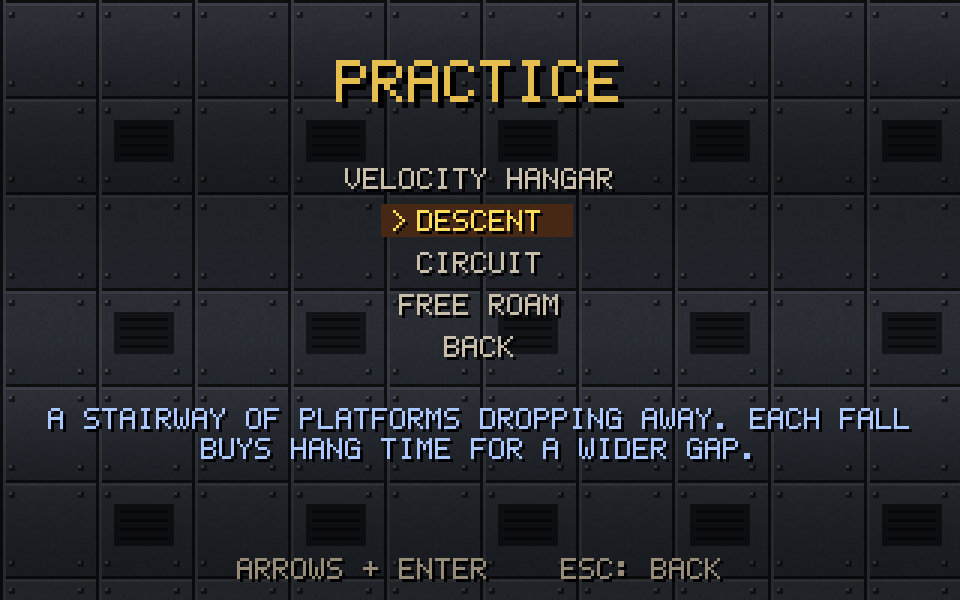
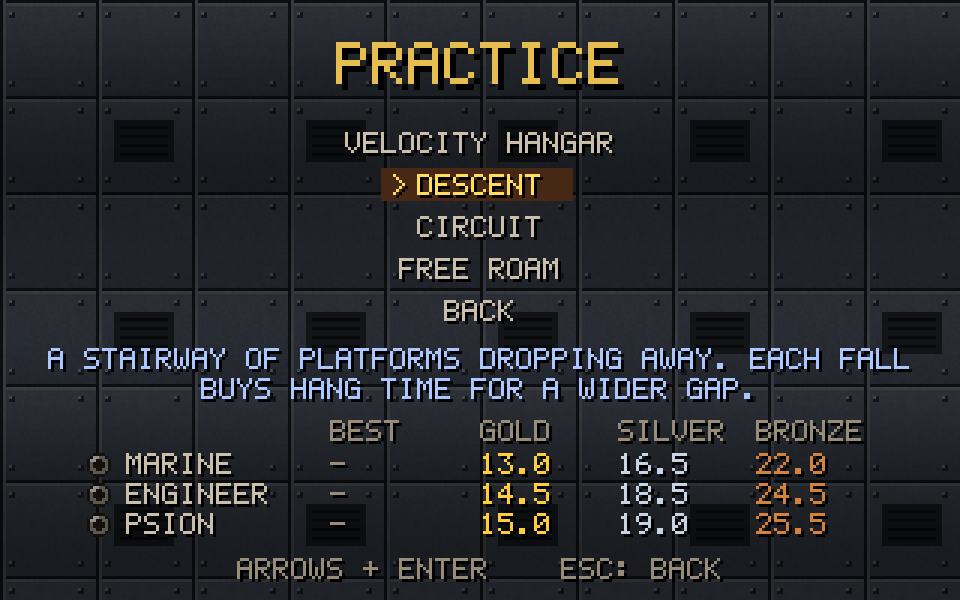
Add gold, silver and bronze medals to the practice courses
Each timed course has target times per class: the route at an average of
170%, 135% and 100% of the class's base run speed, rounded up to the half
second (Marine on the Velocity Hangar: 11.5 / 14.5 / 19.5s). Medals come
from your best time, so existing times earn them straight away.

The clock shows the best medal the run can still make, counting down; the
finish says what the run earned, when it's a new medal, and what the next
one takes. The course list shows each class's medal and the targets, and
the leaderboard shows the targets and a medal by each time.

Claude-Session: https://claude.ai/code/session_01Cd95BVWVCBoytmQDLRrWJ5

diff --git a/src/Renderer.cs b/src/Renderer.cs
@@ -141,14 +141,13 @@ public sealed class Renderer
                 break;
 
             case MenuPage.Courses:
-                CenterText("PRACTICE", 20, Col.Rgb(230, 190, 80), 2);
-                for (int i = 0; i < items.Length; i++) MenuItem(items[i], 56 + i * 14, i == m.Cursor);
+                CenterText("PRACTICE", 14, Col.Rgb(230, 190, 80), 2);
+                for (int i = 0; i < items.Length; i++) MenuItem(items[i], 44 + i * 14, i == m.Cursor);
                 if (m.Cursor < Courses.All.Length)
                 {
                     var course = Courses.All[m.Cursor];
-                    foreach (var (line, k) in Wrap(course.About, 48).Select((l, k) => (l, k))) CenterText(line, 136 + k * 10, Col.Rgb(170, 200, 255));
-                    float best = course.Timed ? Enum.GetValues<PClass>().Select(c => g.Profile.CourseBestTime(course.Key(c))).Where(t => t > 0).DefaultIfEmpty(0).Min() : 0;
-                    if (best > 0) CenterText($"YOUR BEST: {best:0.00}S", 160, Col.Rgb(255, 220, 90));
+                    foreach (var (line, k) in Wrap(course.About, 50).Select((l, k) => (l, k))) CenterText(line, 116 + k * 10, Col.Rgb(170, 200, 255));
+                    if (course.Timed) DrawMedalTable(g, course, 140);
                 }
                 CenterText("ARROWS + ENTER    ESC: BACK", 186, MenuDim);
                 break;
@@ -167,6 +166,12 @@ public sealed class Renderer
         CenterText("LEADERBOARD", 6, gold, 2);
         var def = ClassDef.All[(int)m.BoardClass];
         CenterText($"{m.BoardCourse.Name.ToUpperInvariant()}   < {def.Name.ToUpperInvariant()} >", 26, blue);
+        var (tg, ts, tb) = m.BoardCourse.MedalTimes(m.BoardClass);
+        string targets = $"GOLD {tg:0.0}   SILVER {ts:0.0}   BRONZE {tb:0.0}";
+        int tx = (W - Font.Width(targets)) / 2;
+        Text(tx, 36, $"GOLD {tg:0.0}", Medals.Colour(Medal.Gold));
+        Text(tx + Font.Width($"GOLD {tg:0.0}   "), 36, $"SILVER {ts:0.0}", Medals.Colour(Medal.Silver));
+        Text(tx + Font.Width($"GOLD {tg:0.0}   SILVER {ts:0.0}   "), 36, $"BRONZE {tb:0.0}", Medals.Colour(Medal.Bronze));
         var runs = g.Profile.Board(m.BoardCourse.Key(m.BoardClass));
         if (runs.Count == 0)
         {
@@ -176,11 +181,12 @@ public sealed class Renderer
         else
         {
             var latest = runs.MaxBy(r => r.When);
-            Text(40, 42, "#", MenuDim); Text(64, 42, "TIME", MenuDim); Text(128, 42, "NAME", MenuDim); Text(224, 42, "DATE", MenuDim);
+            Text(34, 48, "#", MenuDim); Text(64, 48, "TIME", MenuDim); Text(128, 48, "NAME", MenuDim); Text(224, 48, "DATE", MenuDim);
             for (int i = 0; i < runs.Count; i++)
             {
                 var r = runs[i];
-                int y = 54 + i * 11;
+                int y = 59 + i * 11;
+                MedalDot(52, y + 1, m.BoardCourse.MedalFor(m.BoardClass, r.Time));
                 uint c = r == latest && r.When != default ? fresh : i == 0 ? gold : MenuText;
                 Text(34, y, $"{i + 1,2}", c);
                 Text(64, y, $"{r.Time:0.00}", c);
@@ -190,6 +196,26 @@ public sealed class Renderer
         }
         CenterText($"NAME: {g.RunnerName}  (CHANGE WITH 'NAME' IN THE CONSOLE)", 172, MenuDim);
         CenterText("LEFT/RIGHT: CLASS   UP/DOWN: COURSE   ESC: BACK", 186, MenuDim);
+    }
+
+    /// <summary>For each class on a course: the medal your best time earned, the time, and the targets.</summary>
+    void DrawMedalTable(Game g, Course course, int y)
+    {
+        Text(110, y, "BEST", MenuDim); Text(160, y, "GOLD", MenuDim); Text(206, y, "SILVER", MenuDim); Text(252, y, "BRONZE", MenuDim);
+        y += 11;
+        foreach (var cls in Enum.GetValues<PClass>())
+        {
+            float best = g.Profile.CourseBestTime(course.Key(cls));
+            var medal = course.MedalFor(cls, best);
+            var (tg, ts, tb) = course.MedalTimes(cls);
+            MedalDot(30, y + 1, medal);
+            Text(42, y, ClassDef.All[(int)cls].Name.ToUpperInvariant(), MenuText);
+            Text(110, y, best > 0 ? $"{best:0.00}" : "-", best <= 0 ? MenuDim : medal == Medal.None ? MenuText : Medals.Colour(medal));
+            Text(160, y, $"{tg:0.0}", Medals.Colour(Medal.Gold));
+            Text(206, y, $"{ts:0.0}", Medals.Colour(Medal.Silver));
+            Text(252, y, $"{tb:0.0}", Medals.Colour(Medal.Bronze));
+            y += 10;
+        }
     }
 
     void DrawCharacter(Game g)
@@ -985,6 +1011,29 @@ public sealed class Renderer
         int y = g.Vars.ShowFps ? 12 : 3;
         Text(W - 4 - Font.Width(time), y, time, g.RunStarted ? Col.Rgb(240, 236, 220) : Col.Rgb(150, 150, 160));
         if (best > 0) Text(W - 4 - Font.Width(top), y + 10, top, Col.Rgb(255, 220, 90));
+        // the medal this run can still make, counting down through gold, silver and bronze as the clock runs
+        var (medal, at) = g.NextMedal();
+        if (medal != Medal.None)
+        {
+            string next = $"{Medals.Name(medal)} {at:0.00}";
+            int ny = y + (best > 0 ? 20 : 10);
+            Text(W - 4 - Font.Width(next) - 9, ny, next, Medals.Colour(medal));
+            MedalDot(W - 9, ny + 1, medal);
+        }
+    }
+
+    /// <summary>A little medal: a coloured disc with a dark rim (grey and hollow for none).</summary>
+    void MedalDot(int x, int y, Medal m)
+    {
+        uint c = Medals.Colour(m), rim = Col.Rgb(20, 16, 12);
+        void Dot(int px, int py, uint col) { if ((uint)px < W && (uint)py < H) Fb[py * W + px] = col; }
+        for (int j = -1; j <= 6; j++)
+            for (int i = -1; i <= 6; i++)
+            {
+                float d = MathF.Sqrt((i - 2.5f) * (i - 2.5f) + (j - 2.5f) * (j - 2.5f));
+                if (d <= 3.9f) Dot(x + i, y + j, rim);
+                if (d <= 3f && (m != Medal.None || d > 1.9f)) Dot(x + i, y + j, j < 2 && i < 3 ? Col.Lerp(c, Col.Rgb(255, 255, 255), 90) : c);
+            }
     }
 
     /// <summary>Room for the practice clock in the top-right corner.</summary>

diff --git a/src/Headless.cs b/src/Headless.cs
@@ -100,6 +100,8 @@ public static class Headless
         GhostChecks(Check);
         Console.WriteLine("More practice courses:");
         CourseChecks(Check);
+        Console.WriteLine("Medals:");
+        MedalChecks(Check);
         Console.WriteLine("Strafe helper:");
         StrafeHelperChecks(Check);
         Console.WriteLine("HUD styles:");
@@ -1214,6 +1216,82 @@ public static class Headless
         g.Menu.Update(new Input { Confirm = true }, 1f / 35f);
         g.Menu.Update(new Input { Pause = true }, 1f / 35f);
         check(g.Menu.Page == MenuPage.Main, "Esc from the course list goes back to the title");
+    }
+
+    static void MedalChecks(Action<bool, string> check)
+    {
+        // targets: gold, silver and bronze for each timed course and class
+        var hangar = Courses.Hangar;
+        check(hangar.RouteLength == 78 && hangar.MedalTimes(PClass.Fighter) == (11.5f, 14.5f, 19.5f),
+              "the Velocity Hangar's Marine targets: gold 11.5s, silver 14.5s, bronze 19.5s (a 78-unit route at 170%, 135% and 100% of a run)");
+        bool ordered = true, fairer = true, possible = true;
+        foreach (var c in Courses.Timed)
+        {
+            var (fg, fs, fb) = c.MedalTimes(PClass.Fighter);
+            var (mg, ms, mb) = c.MedalTimes(PClass.Mage);
+            ordered &= fg < fs && fs < fb && mg < ms && ms < mb;
+            fairer &= mg > fg && mb > fb;
+            // gold asks for an average of 170% of a run: well under the 300% strafe jumping can reach
+            possible &= fg >= c.RouteLength / (new Game().Vars.MaxHop * 3.6f * ClassDef.All[0].Speed) * 1.5f;
+        }
+        check(ordered, "on every timed course gold is quicker than silver, and silver than bronze");
+        check(fairer, "the slower Psion gets more time than the Marine");
+        check(possible, "gold is well within reach of strafe jumping's top speed");
+        check(Courses.FreeRoam.MedalTimes(PClass.Fighter) == (0f, 0f, 0f) && Courses.FreeRoam.MedalFor(PClass.Fighter, 5) == Medal.None, "Free Roam has no medals");
+        check(hangar.MedalFor(PClass.Fighter, 11.5f) == Medal.Gold && hangar.MedalFor(PClass.Fighter, 11.51f) == Medal.Silver
+              && hangar.MedalFor(PClass.Fighter, 19.5f) == Medal.Bronze && hangar.MedalFor(PClass.Fighter, 19.6f) == Medal.None && hangar.MedalFor(PClass.Fighter, 0) == Medal.None,
+              "a time on the target earns that medal; a hair over drops to the next");
+
+        // finishing: the medal the run earns, a new medal when you beat your old one, and the next one to aim for
+        var g = new Game { FixedSeed = 1 };
+        void Tick(Input i, int n = 1) { for (int k = 0; k < n; k++) g.Update(i, 1f / 35f); }
+        g.StartPractice(PClass.Fighter);
+        var exit = g.Level.FindMark('E').Value;
+        void Finish(float time)
+        {
+            Tick(new Input { Move = 1 }, 10);
+            g.Level.CheckpointsReached.UnionWith(Enumerable.Range(0, g.Level.Checkpoints.Count));
+            g.RunTime = time;
+            var p = g.P;
+            p.X = exit.x - 1; p.Y = exit.y; p.FloorZ = Maps.CoursePlatforms[^1].floor; p.Angle = 0;
+            for (int k = 0; k < 35 && g.RunStarted; k++) Tick(new Input { Move = 1 });
+        }
+        bool Said(string text) => g.Messages.Any(m => m.text.Contains(text));
+        Finish(25f);
+        check(g.LastMedal == Medal.None && !Said("New medal") && Said("BRONZE is 19.50s."), "a run slower than bronze earns nothing, and says what bronze takes");
+        Finish(18f);
+        check(g.LastMedal == Medal.Bronze && Said("BRONZE.") && Said("New medal: BRONZE!") && Said("SILVER is 14.50s."), "a bronze run earns a new medal, and names the next");
+        Finish(19f);
+        check(g.LastMedal == Medal.Bronze && !Said("New medal"), "another bronze isn't a new medal");
+        Finish(11f);
+        check(g.LastMedal == Medal.Gold && Said("New medal: GOLD!") && !Said(" is "), "gold, and nothing left to aim for");
+        check(hangar.MedalFor(PClass.Fighter, g.Profile.CourseBestTime("Fighter")) == Medal.Gold, "your medal comes from your best time, so it's kept with your profile");
+
+        // during a run, the clock shows the best medal you can still make
+        g.RunStarted = true;
+        g.RunTime = 5; var a = g.NextMedal();
+        g.RunTime = 12; var b = g.NextMedal();
+        g.RunTime = 16; var c2 = g.NextMedal();
+        g.RunTime = 30; var d = g.NextMedal();
+        check(a == (Medal.Gold, 11.5f) && b == (Medal.Silver, 14.5f) && c2 == (Medal.Bronze, 19.5f) && d.medal == Medal.None,
+              "the clock's medal counts down: gold, then silver, then bronze, then none");
+        var r = new Renderer();
+        g.RunTime = 5;
+        r.Render(g);
+        int goldPx = Enumerable.Range(0, 40).Sum(y => Enumerable.Range(Renderer.W - 100, 100).Count(x => r.Fb[y * Renderer.W + x] == Medals.Colour(Medal.Gold)));
+        check(goldPx > 20, "and it's drawn under the clock, in the medal's colour");
+
+        // the course list and leaderboard show medals
+        g.Paused = true; g.Menu.Show(MenuPage.Leaderboard);
+        r.Render(g);
+        int medalPx = r.Fb.Count(px => px == Medals.Colour(Medal.Gold)) ;
+        check(medalPx > 40, "the leaderboard shows the targets and a medal by each time");
+        g.Menu.Close(); g.Paused = false;
+        g.GoToTitle();
+        g.Menu.Show(MenuPage.Courses);
+        r.Render(g);
+        check(r.Fb.Count(px => px == Medals.Colour(Medal.Gold)) > 40 && r.Fb.Count(px => px == Medals.Colour(Medal.Bronze)) > 20,
+              "and the course list shows each class's medal and the targets");
     }
 
     static void StrafeHelperChecks(Action<bool, string> check)

diff --git a/src/Practice.cs b/src/Practice.cs
@@ -6,10 +6,52 @@ namespace HexenSharp;
 /// their platforms, which the hints use to say how fast you'll need to be for each gap.
 /// </summary>
 public sealed record Course(string Id, string Name, string About, Func<MapDef> Map, bool Timed, string Intro,
-    (int x0, int x1, float floor)[] Platforms = null, float StartAngle = 0, bool Jetpack = false)
+    (int x0, int x1, float floor)[] Platforms = null, float StartAngle = 0, bool Jetpack = false, float Route = 0)
 {
     /// <summary>The leaderboard and ghost key for a class (the Velocity Hangar's are just the class, as they were first).</summary>
     public string Key(PClass cls) => Id == "hangar" ? cls.ToString() : $"{Id}/{cls}";
+
+    /// <summary>How far a run goes, start to finish: a gap course's length (from the start to the exit), or its set route.</summary>
+    public float RouteLength => Route > 0 ? Route : Platforms != null ? Platforms[^1].x1 - 3f : 0;
+
+    /// <summary>
+    /// The medal target times for a class, in seconds: the time to cover the route at an average of your class's run
+    /// speed (bronze), 1.35 times it (silver) and 1.7 times it (gold), rounded up to the half second. Classes that run
+    /// slower get more time; skills don't change the targets.
+    /// </summary>
+    public (float gold, float silver, float bronze) MedalTimes(PClass cls)
+    {
+        if (!Timed) return (0, 0, 0);
+        float run = 3.6f * ClassDef.All[(int)cls].Speed;
+        float T(float pace) => MathF.Ceiling(RouteLength / (pace * run) * 2) / 2;
+        return (T(Medals.GoldPace), T(Medals.SilverPace), T(Medals.BronzePace));
+    }
+
+    /// <summary>The medal a time earns as `cls` (None for no time, or slower than bronze).</summary>
+    public Medal MedalFor(PClass cls, float time)
+    {
+        if (time <= 0 || !Timed) return Medal.None;
+        var (gold, silver, bronze) = MedalTimes(cls);
+        return time <= gold ? Medal.Gold : time <= silver ? Medal.Silver : time <= bronze ? Medal.Bronze : Medal.None;
+    }
+}
+
+public enum Medal { None, Bronze, Silver, Gold }
+
+public static class Medals
+{
+    /// <summary>Average speed over the route, as a multiple of your class's run speed, for each medal.</summary>
+    public const float BronzePace = 1f, SilverPace = 1.35f, GoldPace = 1.7f;
+
+    public static uint Colour(Medal m) => m switch
+    {
+        Medal.Gold => Col.Rgb(255, 204, 60),
+        Medal.Silver => Col.Rgb(200, 212, 228),
+        Medal.Bronze => Col.Rgb(210, 130, 60),
+        _ => Col.Rgb(90, 86, 80),
+    };
+
+    public static string Name(Medal m) => m.ToString().ToUpperInvariant();
 }
 
 public static class Courses
@@ -30,7 +72,8 @@ public static class Courses
 
     public static readonly Course Circuit = new("circuit", "Circuit",
         "A LAP OF A LOOPED TRACK. KEEP YOUR SPEED THROUGH THE CORNERS BY STRAFING INTO THEM.",
-        CircuitMap, true, "Circuit: one lap, clockwise. Strafe into each corner to carry your speed round it.", StartAngle: MathF.PI);
+        CircuitMap, true, "Circuit: one lap, clockwise. Strafe into each corner to carry your speed round it.", StartAngle: MathF.PI,
+        Route: 96); // a lap on a line cutting the corners, between the centre line (110) and hugging the island (84)
 
     public static readonly Course FreeRoam = new("free", "Free Roam",
         "A WIDE OPEN FIELD WITH NOTHING IN IT: NO CLOCK, NO EXIT. PRACTISE HOWEVER YOU LIKE.",

diff --git a/src/Game.cs b/src/Game.cs
@@ -278,13 +278,25 @@ public sealed class Game
     {
         string key = Course.Key(P.Class);
         float best = Profile.CourseBestTime(key);
+        var had = Course.MedalFor(P.Class, best);
+        var medal = Course.MedalFor(P.Class, RunTime);
         int place = Profile.AddCourseRun(key, RunTime, RunnerName, DateTime.Now);
         if (place > 0) SaveProfile();
-        PlaySound(place == 1 ? Sfx.Secret : Sfx.Teleport, 1);
+        PlaySound(place == 1 || medal > had ? Sfx.Secret : Sfx.Teleport, 1);
         Messages.Clear();
-        Say(place == 1 ? $"Course cleared in {RunTime:0.00}s - a new best!"
-            : place > 0 ? $"Course cleared in {RunTime:0.00}s - #{place} on the leaderboard (best {best:0.00}s)."
-            : $"Course cleared in {RunTime:0.00}s (best {best:0.00}s).");
+        string earned = medal == Medal.None ? "" : $" {Medals.Name(medal)}.";
+        Say(place == 1 ? $"Course cleared in {RunTime:0.00}s - a new best!{earned}"
+            : place > 0 ? $"Course cleared in {RunTime:0.00}s - #{place} on the leaderboard (best {best:0.00}s).{earned}"
+            : $"Course cleared in {RunTime:0.00}s (best {best:0.00}s).{earned}");
+        if (medal > had) Say($"New medal: {Medals.Name(medal)}!");
+        var mine = medal > had ? medal : had;
+        if (mine < Medal.Gold)
+        {
+            var next = mine + 1;
+            var t = Course.MedalTimes(P.Class);
+            Say($"{Medals.Name(next)} is {(next == Medal.Gold ? t.gold : next == Medal.Silver ? t.silver : t.bronze):0.00}s.");
+        }
+        LastMedal = medal;
         LastRun = RunTime;
         LastPlace = place;
         // the ghost is your best run: this one replaces it if it's the new best, or if there's no ghost yet
@@ -355,6 +367,15 @@ public sealed class Game
     /// <summary>The time of the last finished practice run, and its place on the leaderboard (0 if off it).</summary>
     public float LastRun;
     public int LastPlace;
+    /// <summary>The medal the last finished practice run earned.</summary>
+    public Medal LastMedal;
+
+    /// <summary>The best medal the run in progress can still make (None once it's slower than bronze), and its time.</summary>
+    public (Medal medal, float time) NextMedal()
+    {
+        var (gold, silver, bronze) = Course.MedalTimes(P.Class);
+        return RunTime <= gold ? (Medal.Gold, gold) : RunTime <= silver ? (Medal.Silver, silver) : RunTime <= bronze ? (Medal.Bronze, bronze) : (Medal.None, 0);
+    }
 
     /// <summary>The name your practice runs go on the leaderboard under (`name` in the console).</summary>
     public string RunnerName = CleanName(Environment.UserName);

diff --git a/README.md b/README.md
@@ -262,6 +262,20 @@ On the timed courses:
 - The run is timed from the moment you set off; the clock sits in the top-right corner, with your best for that
   class under it. Step into the exit at the far end to finish: it tells you your time and where it placed on the
   leaderboard, and puts you back at the start for another go.
+- **Medals:** each timed course has gold, silver and bronze target times for each class.
+  - **How they're set:** each target is the time to cover the course's route at an average of 170%, 135% and 100%
+    of that class's run speed, rounded up to the half second. So the slower Engineer and Psion get more time, and
+    skills don't change the targets.
+  - **Marine targets:** 11.5 / 14.5 / 19.5 s on the Velocity Hangar, 13 / 16.5 / 22 s on Descent and
+    14.5 / 18 / 24 s on the Circuit.
+  - **While you run:** the clock shows the best medal you can still make, counting down from gold to silver to
+    bronze.
+  - **At the finish:** you're told the medal your run earned, when it's a new one, and what the next takes.
+  - **Where to see them:** the course list shows each class's medal and targets, and the leaderboard puts a medal
+    by every time.
+  - **Saving:** medals come from your best times, so they're kept with your profile.
+  - **Estimates:** the targets were set from pace, not from real runs, so they may want tuning once people have
+    played: `Medals.GoldPace` and friends in `src/Practice.cs`.
 - The **leaderboard** (on the title menu, and on the pause menu while you're on a course) keeps the ten fastest
   runs for each course and class (`Up`/`Down` switch course), since they run at different speeds: time, name and date, the best in gold and your latest
   in green. `Left`/`Right` switch class. Runs go under your computer's user name; set another with `name <name>` in
